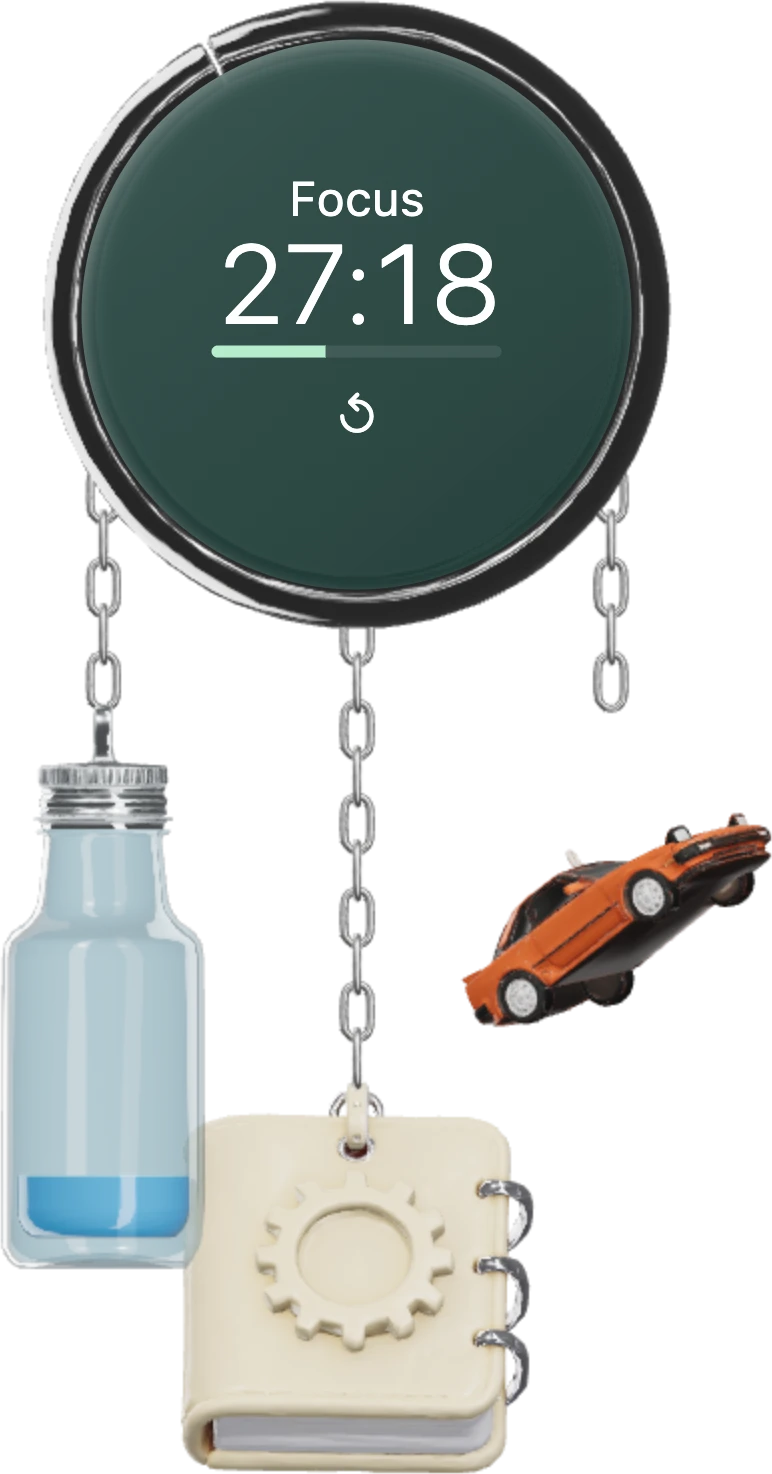
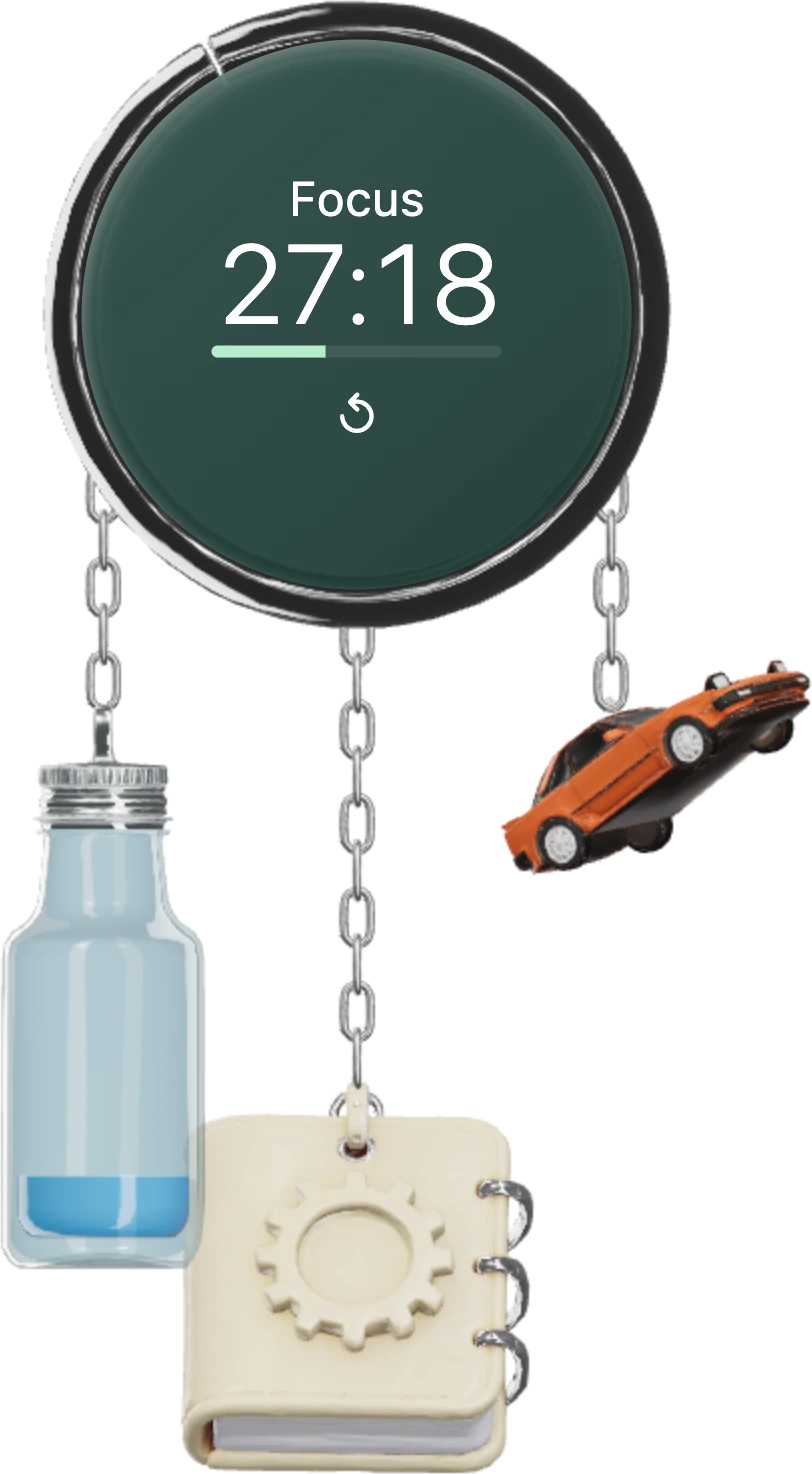
Calibrate Orange coupe roof-loop attachment and refresh editorial capture

diff --git a/scripts/editorial-capture.tsx b/scripts/editorial-capture.tsx
@@ -14,6 +14,6 @@ const ml=Number(q.get('ml')||0);if(ml)state.drinks=[{id:'demo-drink',ml:ml as 35
 if(q.get('car'))state.settings.charms!.slots.companion=emptySlot('car');
 if(q.get('tag')){state.settings.charms!.slots.companion={...emptySlot('tag'),name:'MIRA',nameStyle:q.get('tag') as 'metal'|'neon',nameColor:'#46ffb0'};}
 const s={state,blockers:[],error:null,recovered:false,undoTimerUntil:null};
-function Solo(){const ref=useRef<HTMLDivElement>(null);useEffect(()=>{const sc=new CharmScene(ref.current!,{appearance:state.settings.appearance!,settings:state.settings,fill:ml/1750,glow:false,reduced:true,editing:false,onPosition:()=>{},onStatus:()=>{}});const timer=setInterval(()=>{const target=sc.objects.get(q.get('solo') as any);if(!(sc as any).ready||!target)return;clearInterval(timer);for(const child of sc.scene.children)if(child instanceof T.Group)child.visible=child===target;const box=new T.Box3().setFromObject(target),c=box.getCenter(new T.Vector3()),size=box.getSize(new T.Vector3());const h=Math.max(size.y,size.x/0.8)*1.25;sc.camera.left=-h*.4;sc.camera.right=h*.4;sc.camera.top=h*.5;sc.camera.bottom=-h*.5;sc.camera.position.set(c.x,c.y,3);sc.camera.lookAt(c.x,c.y,0);sc.camera.updateProjectionMatrix();sc.renderer.render(sc.scene,sc.camera);document.body.dataset.ready='true';},100);return()=>{clearInterval(timer);sc.dispose();}},[]);return <div ref={ref} style={{width:600,height:750}}/>}
+function Solo(){const ref=useRef<HTMLDivElement>(null);useEffect(()=>{const sc=new CharmScene(ref.current!,{appearance:state.settings.appearance!,settings:state.settings,fill:ml/1750,glow:false,reduced:true,editing:false,onPosition:()=>{},onStatus:()=>{}});const timer=setInterval(()=>{const target=sc.objects.get(q.get('solo') as any);if(!(sc as any).ready||!target)return;clearInterval(timer);for(const child of sc.scene.children)if(child instanceof T.Group)child.visible=child===target;(window as any).editorialScene=sc;const box=new T.Box3().setFromObject(target),c=box.getCenter(new T.Vector3()),size=box.getSize(new T.Vector3());const h=Math.max(size.y,size.x/0.8)*1.25;sc.camera.left=-h*.4;sc.camera.right=h*.4;sc.camera.top=h*.5;sc.camera.bottom=-h*.5;sc.camera.position.set(c.x,c.y,3);sc.camera.lookAt(c.x,c.y,0);sc.camera.updateProjectionMatrix();sc.renderer.render(sc.scene,sc.camera);document.body.dataset.ready='true';},100);return()=>{clearInterval(timer);sc.dispose();}},[]);return <div ref={ref} style={{width:600,height:750}}/>}
 createRoot(document.getElementById('root')!).render(q.get('solo')?<Solo/>:<SceneWidget snapshot={s} send={async()=>s}/>);
 const style=document.createElement('style');style.textContent='html,body{margin:0;background:transparent!important} .scene-widget{zoom:2}';document.head.append(style);
